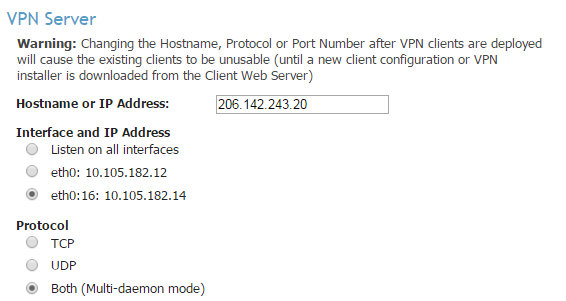
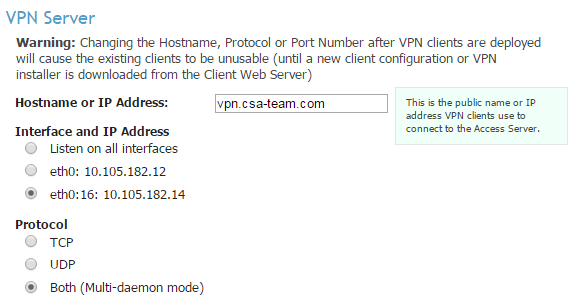
updates to openvpn with ssl
updates to openvpn with ssl

diff --git a/Network/centurylink-cloud-guide-to-openvpn-access-server.md b/Network/centurylink-cloud-guide-to-openvpn-access-server.md
@@ -1,6 +1,6 @@
 {{{
   "title": "CenturyLink Cloud Guide to Openvpn Access Server",
-  "date": "11-5-2015",
+  "date": "11-6-2015",
   "author": "Chris Little",
   "attachments": [],
   "contentIsHTML": false,
@@ -46,6 +46,8 @@ OpenVPN Access Server is a full featured secure network tunneling VPN software s
 * **Flexible Authentication:** Leverage LDAP, Radius and even Dual Factor Authentication for client vpn services.
 * **Scalable:** Expand concurrent user volumes and performance quickly to adapt to changing business needs.
 * **Control:** Maintain complete control of the entire OpenVPN Access Server configuration.
+
+![OpenVPN AS High Level Overview](..images/centurylink-cloud-guide-to-openvpn-access-server-hl.png)
 
 ### Reserving Client VPN DHCP Pool in the Control Portal
 As part of the OpenVPN AS configuration a pool of DHCP addresses in the OpenVPN vlan must be claimed in the Control Portal to avoid these IP addresses from being allocated to other services on the platform.  
@@ -345,7 +347,7 @@ To create an active and standby configuration using OpenVPN Access Server follow
 
 2. Navigate to **Configuration > Sever Network Settings** in the Web Admin UI (NOTE: Remember to use the Shared Virtual IP Address if using HA).  
 
-    * Input the FQDN you plan to use for the client vpn web URL (i.e. vpn.mycompany.com) in the **Hostname or IP Address** field.  This FQDN should resolve to the public IP address previously allocated and requires you complete the **Installing SSL Web Certificates** portion of this article.  If you plan to deliver services without a FQDN (as shown in this example) just input the public IP address directly.
+    * Input the FQDN you plan to use for the client vpn web URL (i.e. vpn.mycompany.com) in the **Hostname or IP Address** field.  This FQDN should resolve to the public IP address previously allocated and requires you complete the **Installing SSL Web Certificates** portion of this article.  
     * If using HA, update the **Interfaces and IP Addresses** selection by choosing the **Shared Virtual IP Address** in the VPN server section.
 
         ![VPN Server Configuration](../images/centurylink-cloud-guide-to-openvpn-access-server-05.png)
@@ -393,10 +395,9 @@ While there are various authentication methods (Local, PAM, Radius, LDAP) this e
 
     ![firewall policy](../images/centurylink-cloud-guide-to-openvpn-access-server-10.png)
 
-    **Source**|**Destination**|**Ports**
-    ----------|---------------|---------
-    Primary OpenVPN AS<br>Secondary OpenVPN AS<br>OpenVPN AS Shared Virtual IP|Microsoft Active Directory Domain Controller(s)|TCP/389<br>UDP/389
-
+**Source**|**Destination**|**Ports**
+----------|---------------|---------
+Primary OpenVPN AS<br>Secondary OpenVPN AS<br>OpenVPN AS Shared Virtual IP|Microsoft Active Directory Domain Controller(s)|TCP/389<br>UDP/389
 
 4. Navigate to **Authentication > General** in the Web Admin UI.  Select **LDAP**, Choose **Save Settings**, followed by **Update Running Server.**
 
@@ -413,7 +414,26 @@ While there are various authentication methods (Local, PAM, Radius, LDAP) this e
 6. Choose **Save Settings**, followed by **Update Running Server.**
 
 ### Installing SSL Web Certificates
-Customers can follow the [OpenVPN AS documentation](//docs.openvpn.net/how-to-tutorialsguides/administration/installing-and-managing-ssl-web-certificates-in-openvpn-access-server/) to install and managed SSL web certificates. Update your DNS records to point to the Public IP created previously.  
+
+1. Connect to [Client VPN.](../Network/how-to-configure-client-vpn.md)
+
+2. SSH to the **Shared Virtual IP Address** (or primary node for standalone deployments) of the OpenVPN Access Server cluster and login using root.
+
+3. Run the following command to generate the certificate signing request (CSR) and your private key.
+
+    ```
+    openssl req -out server.csr -new -newkey rsa:4096 -sha256 -nodes -keyout server.key
+    ```
+
+4. Once your certificate authority has approved your certificate signing request (CSR), it will send you the signed certificate and a certificate bundle.
+
+5. Navigate to **Configuration > Web Server** in the Web Admin UI.  Provide the three files necessary for certificate installation, then press the Validate button.
+
+    ![Validate Certificates](../images/centurylink-cloud-guide-to-openvpn-access-server-16.png)
+
+6. If you have provided all the necessary files correctly, a successful message should appear. Choose **Save Settings**, followed by **Update Running Server.**
+
+    ![Validation Results](../images/centurylink-cloud-guide-to-openvpn-access-server-17.png)
 
 ### Connecting to Client VPN Services
 
